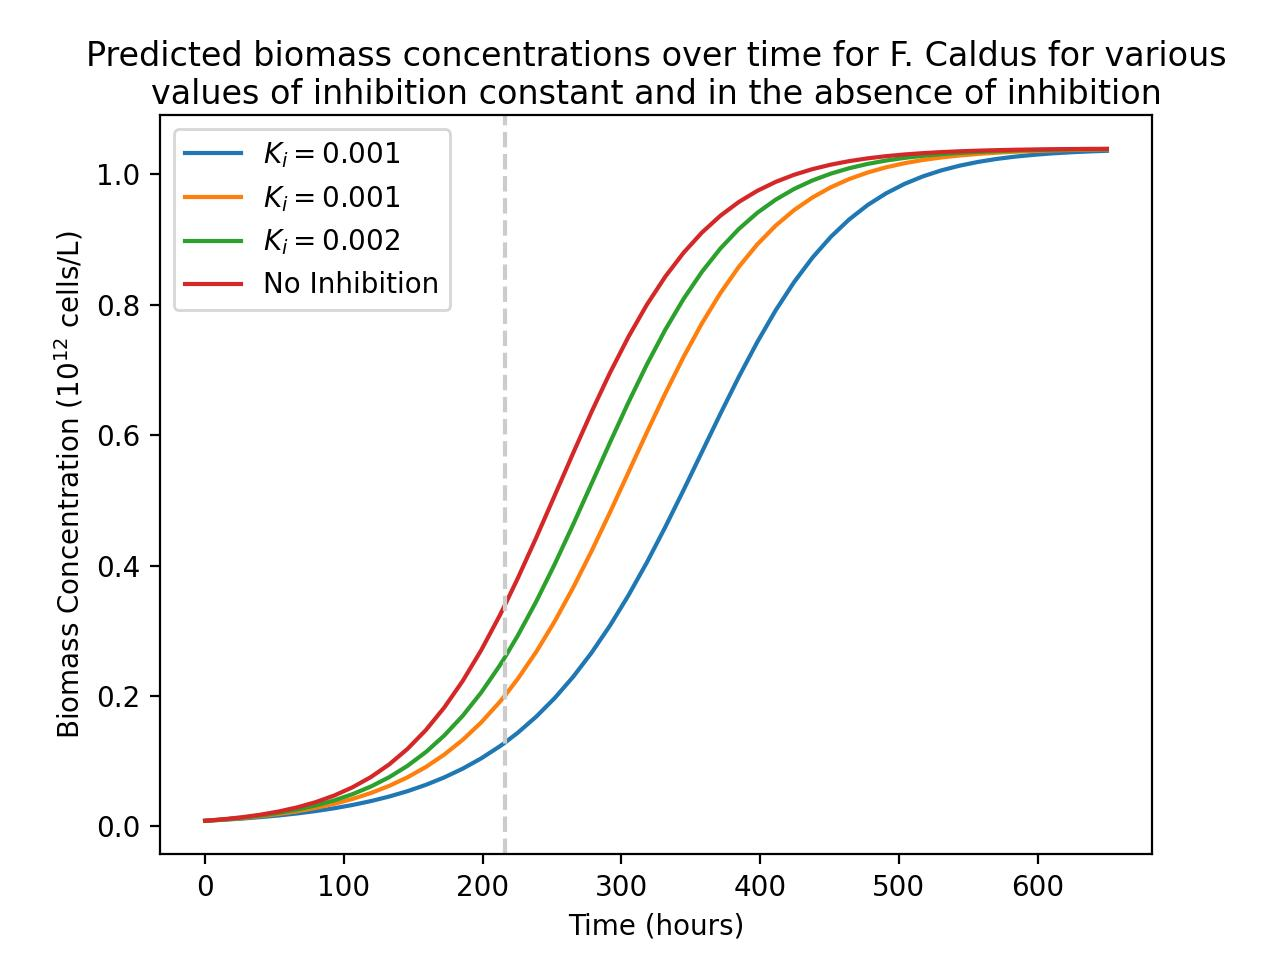
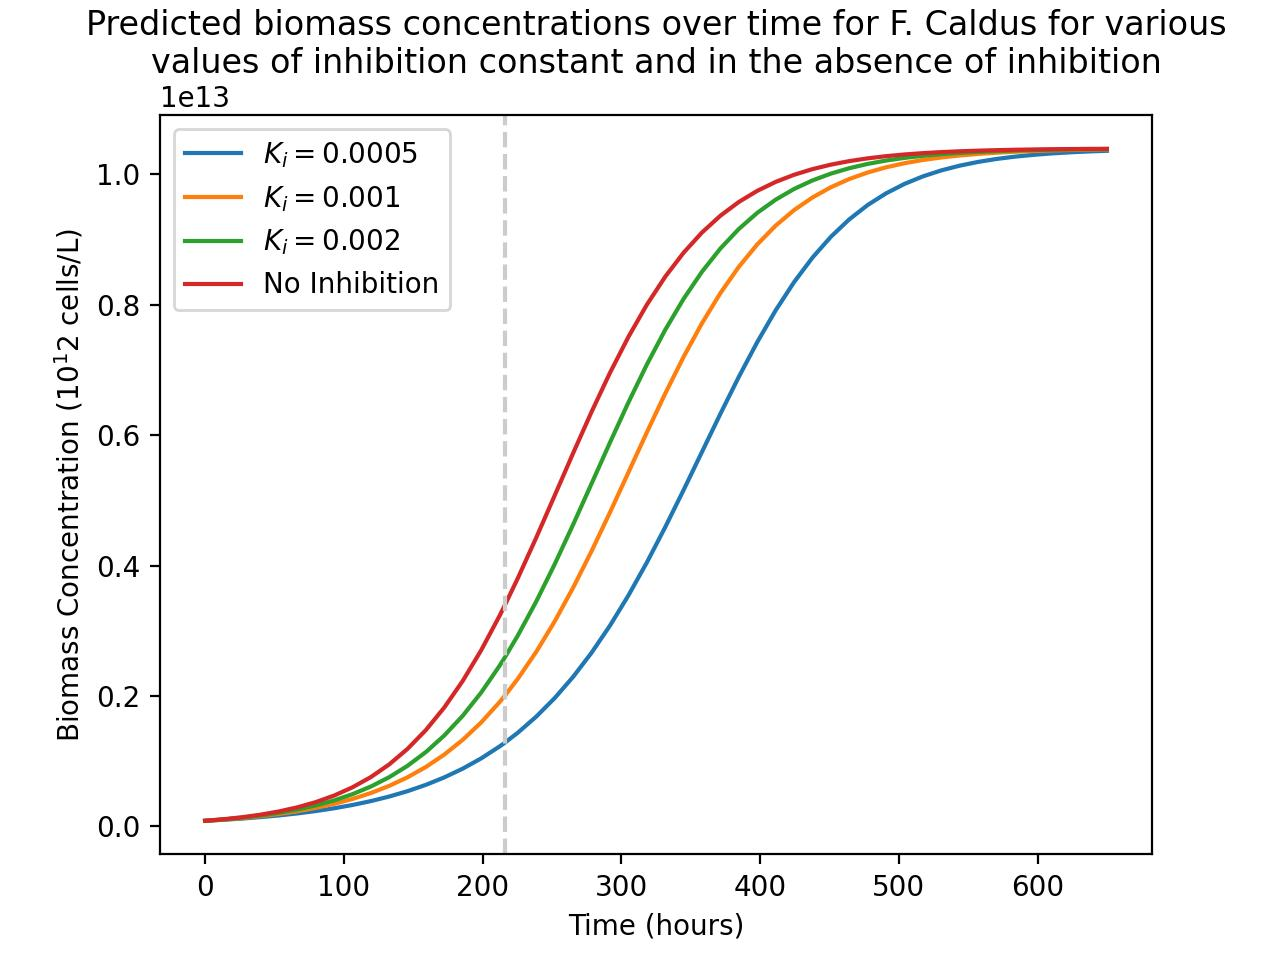
Fix issue with cell number scaling

Changed region(s): [[0.0625, 0.0, 0.9688, 0.125], [0.0312, 0.2188, 0.0625, 0.7812], [0.2812, 0.1562, 0.3125, 0.1875]]

diff --git a/inhibition.py b/inhibition.py
@@ -72,13 +72,18 @@ def plot_inhibition_curves(
         label='$K_i = $' + str(ki)
 
         if cells:
+            scale = 10**(cells) 
+            # cX /= scale
+            # zero_inhib /= scale
             ylabel = f'Biomass Concentration ($10^{cells}$ cells/L)'
+            # if measured_data is not None:
+            #     measured_data /= scale
 
         plt.plot(
             eval_times,
             cX,
             '-',
-            label='$K_i = $' + str(round( ki, 3 ) )
+            label='$K_i = $' + str(round( ki, 5 ) )
             )
 
     # Plot curve for ZERO inhibition (pure Monod dynamics)

diff --git a/4_F_caldus.py b/4_F_caldus.py
@@ -267,7 +267,7 @@ args = (Vmax, Km, Yps, Yxs)
 
 g = odeint(Monod, b0, times, args=args)
 zero_inhib = g[:,0] # Biomass concentration
-zero_inhib /= 10e12
+# zero_inhib /= 10e12
 
 plot_inhibition_curves(
     times,
@@ -278,10 +278,11 @@ plot_inhibition_curves(
     haldane_with_products,
     mic_name,
     xvline,
-    show_fig=show_fig
+    show_fig=show_fig,
+    cells=12
 )
 
 # remove ki=1 curve
 # Move vertical line to 216
-# Round the ki's
+# Round the ki's => scientific nt
 # better spacing

diff --git a/6_mixed_thermophylic.py b/6_mixed_thermophylic.py
@@ -35,7 +35,7 @@ print(state_names, '\n', states_m)
 
 # Convert biomass concentration (cells/ml) to (cells/L)
 states_m = states_m / 1000
-state_names = 'Biomass Concentration (cells/ml)'
+state_names = 'Biomass Concentration (cells/L)'
 print('\nProcessed measured states')
 print(state_names, '\n', states_m)
 
